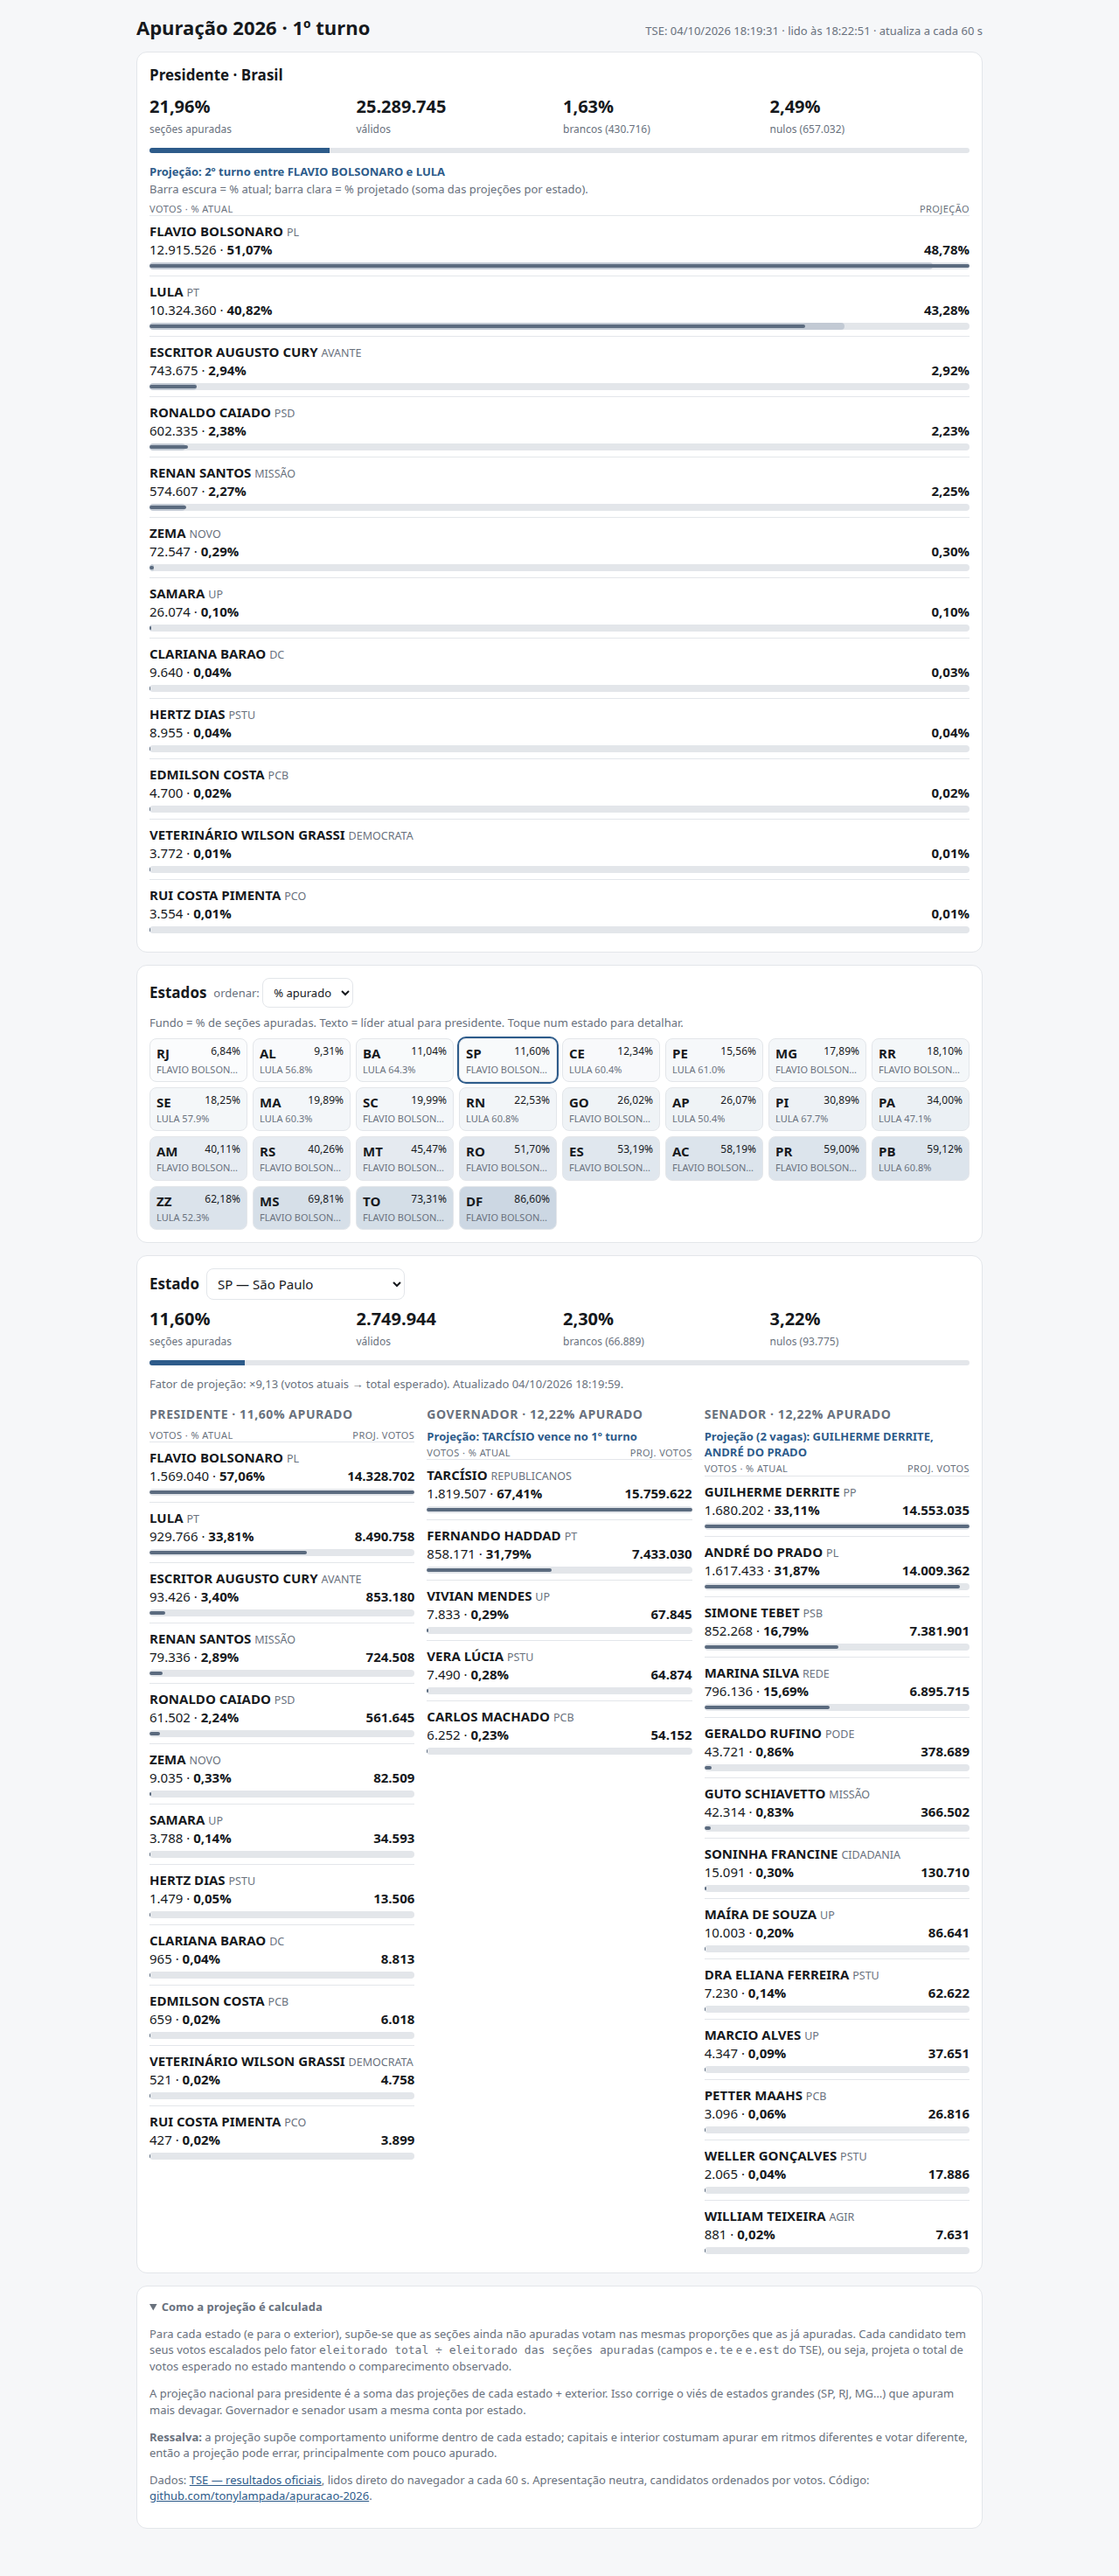
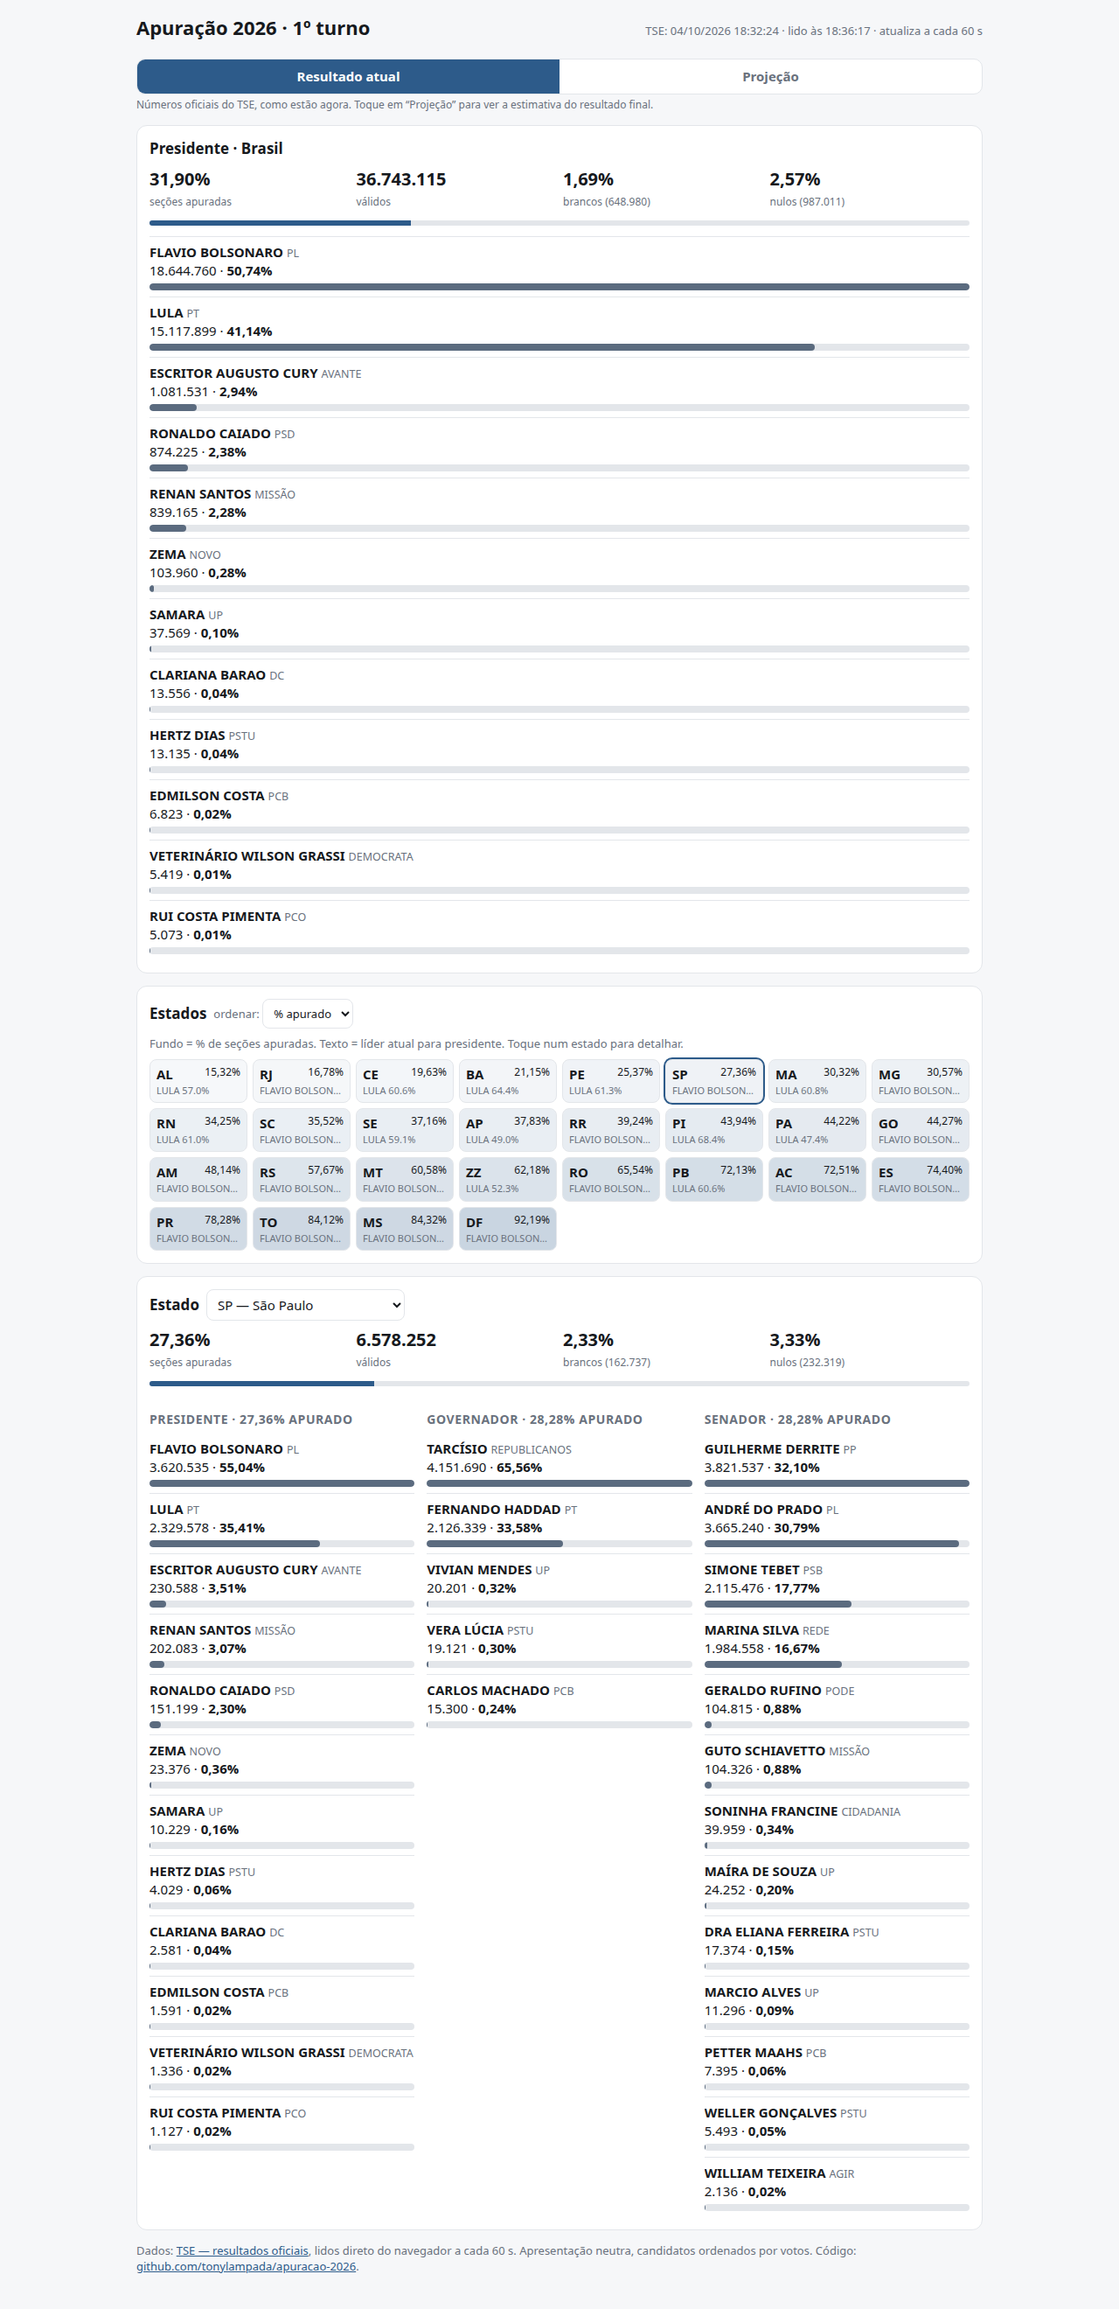
Separate current result from projection behind a toggle (SLM-73)
Default view shows only TSE numbers. 'Resultado atual | Projeção' toggle
switches to a projection mode with its own banner and accent; projected
numbers are labelled. No more second-round wording; projection verdict is
phrased as a 1st-round outcome. Mode persists in localStorage.

Changed region(s): [[0.125, 0.0, 0.875, 0.9939], [0.4688, 0.9629, 0.5625, 0.9939], [0.625, 0.0, 0.6562, 0.0311]]

diff --git a/site/app.js b/site/app.js
@@ -34,14 +34,19 @@ const ufRaces = {};     // uf -> {gov, sen, t}
 let sel = (location.hash.slice(1) || "sp").toLowerCase();
 if (!UFS.includes(sel)) sel = "sp";
 
+let mode = "atual";     // "atual" = TSE numbers only; "proj" = projection of the final 1st-round result
+try { if (localStorage.getItem("modo") === "proj") mode = "proj"; } catch {}
+const P = () => mode === "proj";
+
+// Current mode: votes and % as TSE reports. Projection mode: projected figure first, current beside it, labelled.
 function candRows(list, opts) {
-  const max = Math.max(...list.map(c => opts.projPct ? Math.max(c.pct, c.ppct) : c.pct), 1);
-  return `<div class="colh"><span>votos · % atual</span><span>${opts.projPct ? "projeção" : "proj. votos"}</span></div>` +
-    list.map((c, i) => `<div class="cand">
+  const proj = P(), max = Math.max(...list.map(c => proj && opts.projPct ? Math.max(c.pct, c.ppct) : c.pct), 1);
+  const head = proj ? `<div class="colh"><span>atual (TSE): votos · %</span><span>${opts.projPct ? "% projetado" : "votos projetados"}</span></div>` : "";
+  return head + list.map(c => `<div class="cand">
       <span class="nm">${esc(c.nome)} <small>${esc(c.sg)}</small>${c.eleito ? '<span class="tag el">eleito</span>' : ""}</span>
-      <span class="v">${fmt(c.votos)} · <b>${pct(c.pct)}</b></span>
-      <span class="pj">${opts.projPct ? pct(c.ppct) : fmt(c.proj)}</span>
-      <span class="bars">${opts.projPct ? `<i class="p" style="width:${c.ppct / max * 100}%"></i>` : ""}<i class="a" style="width:${c.pct / max * 100}%"></i></span>
+      <span class="v">${proj ? '<small class="lab">atual</small> ' : ""}${fmt(c.votos)} · <b>${pct(c.pct)}</b></span>
+      ${proj ? `<span class="pj"><small class="lab">projetado</small> ${opts.projPct ? pct(c.ppct) : fmt(c.proj)}</span>` : "<span></span>"}
+      <span class="bars">${proj && opts.projPct ? `<i class="p" style="width:${c.ppct / max * 100}%"></i>` : ""}<i class="a${proj ? "" : " full"}" style="width:${c.pct / max * 100}%"></i></span>
     </div>`).join("");
 }
 
@@ -54,10 +59,11 @@ function kpis(r) {
   </div><div class="prog"><i style="width:${r.pst}%"></i></div>`;
 }
 
+// Projection only, phrased as a 1st-round outcome.
 function verdict(list, key) {
-  const [a, b] = list;
+  const a = list[0];
   if (!a) return "";
-  return a[key] > 50 ? `Projeção: ${esc(a.nome)} vence no 1º turno` : `Projeção: 2º turno entre ${esc(a.nome)} e ${esc(b?.nome ?? "?")}`;
+  return a[key] > 50 ? `Projeção do 1º turno: ${esc(a.nome)} atinge 50%+ dos válidos` : "Projeção do 1º turno: nenhum candidato atinge 50% dos válidos";
 }
 
 function renderBR() {
@@ -69,9 +75,10 @@ function renderBR() {
   const sum = Object.values(tot).reduce((a, b) => a + b, 0) || 1;
   const list = br.cands.map(c => ({...c, ppct: (tot[c.n] || 0) / sum * 100}));
   const missing = UFS.filter(u => !pres[u]).length;
+  const v = br.fim ? "Apuração encerrada" : P() ? verdict([...list].sort((a, b) => b.ppct - a.ppct), "ppct") : "";
   $("#br").innerHTML = `<h2>Presidente · Brasil</h2>${kpis(br)}
-    <div class="verdict">${br.fim ? "Apuração encerrada" : verdict([...list].sort((a, b) => b.ppct - a.ppct), "ppct")}</div>
-    <div class="note" style="margin-bottom:6px">Barra escura = % atual; barra clara = % projetado (soma das projeções por estado).${missing ? ` <b>${missing} estado(s) sem dados nesta rodada.</b>` : ""}</div>
+    ${v ? `<div class="verdict">${v}</div>` : ""}
+    ${P() ? `<div class="note" style="margin-bottom:6px">Barra escura = % atual; barra clara = % projetado (soma das projeções por estado).${missing ? ` <b>${missing} estado(s) sem dados nesta rodada.</b>` : ""}</div>` : ""}
     ${candRows(list, {projPct: true})}`;
 }
 
@@ -90,15 +97,16 @@ function raceBlock(title, r) {
   if (!r) return `<div><h3>${title}</h3><div class="note">sem dados</div></div>`;
   let v = "";
   if (r.fim) v = "Apuração encerrada";
+  else if (!P()) v = "";
   else if (title === "Governador") v = verdict(r.cands, "pct");
   else if (title === "Senador") v = `Projeção (${r.vagas} vaga${r.vagas > 1 ? "s" : ""}): ` + r.cands.slice(0, r.vagas).map(c => esc(c.nome)).join(", ");
-  return `<div><h3>${title} · ${pct(r.pst)} apurado</h3><div class="verdict">${v}</div>${candRows(r.cands, {projPct: false})}</div>`;
+  return `<div><h3>${title} · ${pct(r.pst)} apurado</h3>${v ? `<div class="verdict">${v}</div>` : ""}${candRows(r.cands, {projPct: false})}</div>`;
 }
 
 function renderUF() {
   const p = pres[sel], x = ufRaces[sel] || {};
   $("#ufbody").className = "";
-  $("#ufbody").innerHTML = (p ? kpis(p) + `<div class="note">Fator de projeção: ×${p.f.toLocaleString("pt-BR", {maximumFractionDigits: 2})} (votos atuais → total esperado). Atualizado ${esc(p.hora)}.</div>` : "") +
+  $("#ufbody").innerHTML = (p ? kpis(p) + (P() ? `<div class="note">Fator de projeção: ×${p.f.toLocaleString("pt-BR", {maximumFractionDigits: 2})} (votos atuais → total esperado). Atualizado ${esc(p.hora)}.</div>` : "") : "") +
     `<div class="cols">${raceBlock("Presidente", p)}${sel === "zz" ? "" : raceBlock("Governador", x.gov) + raceBlock("Senador", x.sen)}</div>`;
 }
 
@@ -132,6 +140,15 @@ $("#uf").innerHTML = UFS.map(u => `<option value="${u}">${u.toUpperCase()} — $
 $("#uf").value = sel;
 $("#uf").onchange = e => select(e.target.value);
 $("#sort").onchange = renderGrid;
+function setMode(m) {
+  mode = m;
+  try { localStorage.setItem("modo", m); } catch {}
+  document.body.classList.toggle("proj", m === "proj");
+  document.querySelectorAll("#modo button").forEach(b => b.setAttribute("aria-pressed", b.dataset.m === m));
+  if (pres.br) { renderBR(); renderUF(); }
+}
+$("#modo").onclick = e => { const b = e.target.closest("button"); if (b) setMode(b.dataset.m); };
+setMode(mode);
 $("#grid").onclick = e => { const b = e.target.closest(".uf"); if (b) select(b.dataset.uf); };
 refresh();
 setInterval(refresh, REFRESH);

diff --git a/site/index.html b/site/index.html
@@ -5,8 +5,8 @@
 <meta name="viewport" content="width=device-width, initial-scale=1">
 <title>Apuração 2026</title>
 <style>
-:root{--bg:#f6f7f9;--card:#fff;--ink:#16191d;--mut:#69717d;--line:#e3e6ea;--bar:#5b6b7f;--proj:#c2cad4;--acc:#2d5b8a;--warn:#a35d00}
-@media (prefers-color-scheme:dark){:root{--bg:#111316;--card:#1a1d21;--ink:#e8eaed;--mut:#9aa2ad;--line:#2a2f35;--bar:#8fa3ba;--proj:#3a434e;--acc:#8db6e0;--warn:#e0a050}}
+:root{--bg:#f6f7f9;--card:#fff;--ink:#16191d;--mut:#69717d;--line:#e3e6ea;--bar:#5b6b7f;--proj:#c2cad4;--acc:#2d5b8a;--warn:#a35d00;--pacc:#8a3d9e;--pbg:#f7f2f9}
+@media (prefers-color-scheme:dark){:root{--bg:#111316;--card:#1a1d21;--ink:#e8eaed;--mut:#9aa2ad;--line:#2a2f35;--bar:#8fa3ba;--proj:#3a434e;--acc:#8db6e0;--warn:#e0a050;--pacc:#b06ccc;--pbg:#17121a}}
 *{box-sizing:border-box}
 body{margin:0;background:var(--bg);color:var(--ink);font:15px/1.4 system-ui,-apple-system,"Segoe UI",Roboto,sans-serif;-webkit-text-size-adjust:100%}
 main{max-width:1000px;margin:0 auto;padding:12px 16px 40px}
@@ -48,11 +48,33 @@ select{font:inherit;padding:6px 8px;border-radius:8px;border:1px solid var(--lin
 .verdict{font-size:13px;margin:6px 0 2px;color:var(--acc);font-weight:600}
 details summary{cursor:pointer;font-weight:600}
 a{color:var(--acc)}
+.cand .v small.lab,.cand .pj small.lab{font-weight:400;font-size:11px;color:var(--mut);text-transform:uppercase;letter-spacing:.03em}
+.bars .a.full{height:100%;top:0}
+.modo{position:sticky;top:0;z-index:5;background:var(--bg);padding:8px 0;margin-bottom:6px}
+.seg{display:flex;border:1px solid var(--line);border-radius:10px;overflow:hidden;background:var(--card)}
+.seg button{flex:1;font:inherit;font-weight:600;padding:9px 8px;border:0;background:transparent;color:var(--mut);cursor:pointer}
+.seg button[aria-pressed="true"]{background:var(--acc);color:#fff}
+.modo .hint{font-size:12px;color:var(--mut);margin-top:4px}
+.banner,.only-proj{display:none}
+body.proj .only-proj{display:block}
+body.proj .only-atual{display:none}
+.banner{background:var(--pacc);color:#fff;border-radius:10px;padding:10px 12px;font-weight:700;letter-spacing:.02em;margin-top:8px}
+.banner small{display:block;font-weight:400;letter-spacing:0;opacity:.9}
+body.proj{--acc:var(--pacc);--bg:var(--pbg)}
+body.proj .card{border-color:var(--pacc)}
 </style>
 </head>
 <body>
 <main>
 <header><h1>Apuração 2026 · 1º turno</h1><div id="status">carregando…</div></header>
+
+<div class="modo">
+  <div class="seg" id="modo" role="group" aria-label="Ver projeção do resultado final">
+    <button data-m="atual" aria-pressed="true">Resultado atual</button><button data-m="proj" aria-pressed="false">Projeção</button>
+  </div>
+  <div class="hint only-atual">Números oficiais do TSE, como estão agora. Toque em “Projeção” para ver a estimativa do resultado final.</div>
+  <div class="banner only-proj">PROJEÇÃO — estimativa, não é resultado oficial<small>Números “projetados” extrapolam as seções já apuradas para o total. Os números “atual” são os do TSE.</small></div>
+</div>
 
 <section class="card" id="br"><h2>Presidente · Brasil</h2><div class="note">carregando…</div></section>
 
@@ -68,15 +90,16 @@ a{color:var(--acc)}
   <div id="ufbody" class="note">carregando…</div>
 </section>
 
-<section class="card note">
+<section class="card note only-proj">
 <details open><summary>Como a projeção é calculada</summary>
 <p>Para cada estado (e para o exterior), supõe-se que as seções ainda não apuradas votam nas mesmas proporções que as já apuradas. Cada candidato tem seus votos escalados pelo fator <code>eleitorado total ÷ eleitorado das seções apuradas</code> (campos <code>e.te</code> e <code>e.est</code> do TSE), ou seja, projeta o total de votos esperado no estado mantendo o comparecimento observado.</p>
 <p>A projeção nacional para presidente é a soma das projeções de cada estado + exterior. Isso corrige o viés de estados grandes (SP, RJ, MG…) que apuram mais devagar. Governador e senador usam a mesma conta por estado.</p>
 <p><b>Ressalva:</b> a projeção supõe comportamento uniforme dentro de cada estado; capitais e interior costumam apurar em ritmos diferentes e votar diferente, então a projeção pode errar, principalmente com pouco apurado.</p>
-<p>Dados: <a href="https://resultados.tse.jus.br/oficial/app/index.html">TSE — resultados oficiais</a>, lidos direto do navegador a cada 60 s. Apresentação neutra, candidatos ordenados por votos. Código: <a href="https://github.com/tonylampada/apuracao-2026">github.com/tonylampada/apuracao-2026</a>.</p>
+
 </details>
 </section>
+<footer class="note">Dados: <a href="https://resultados.tse.jus.br/oficial/app/index.html">TSE — resultados oficiais</a>, lidos direto do navegador a cada 60 s. Apresentação neutra, candidatos ordenados por votos. Código: <a href="https://github.com/tonylampada/apuracao-2026">github.com/tonylampada/apuracao-2026</a>.</footer>
 </main>
-<script src="app.js?v=2"></script>
+<script src="app.js?v=3"></script>
 </body>
 </html>

diff --git a/README.md b/README.md
@@ -5,7 +5,9 @@ Live TSE 2026 election-count numbers by state, plus an extrapolation of the fina
 
 The page (`site/index.html` + `site/app.js`, no build) fetches the official TSE JSONs straight from the
 browser every 60 s (TSE echoes the request Origin in CORS) and shows president for Brazil, a state grid,
-and president/governor/senator per state, each with a projection.
+and president/governor/senator per state. The default view is the current TSE count only; a
+"Resultado atual | Projeção" toggle (remembered in localStorage) switches to the projection of the final
+1st-round result, clearly labelled as an estimate.
 
 ## Projection
 For each state (and abroad, `zz`), the uncounted sections are assumed to vote like the counted ones:
